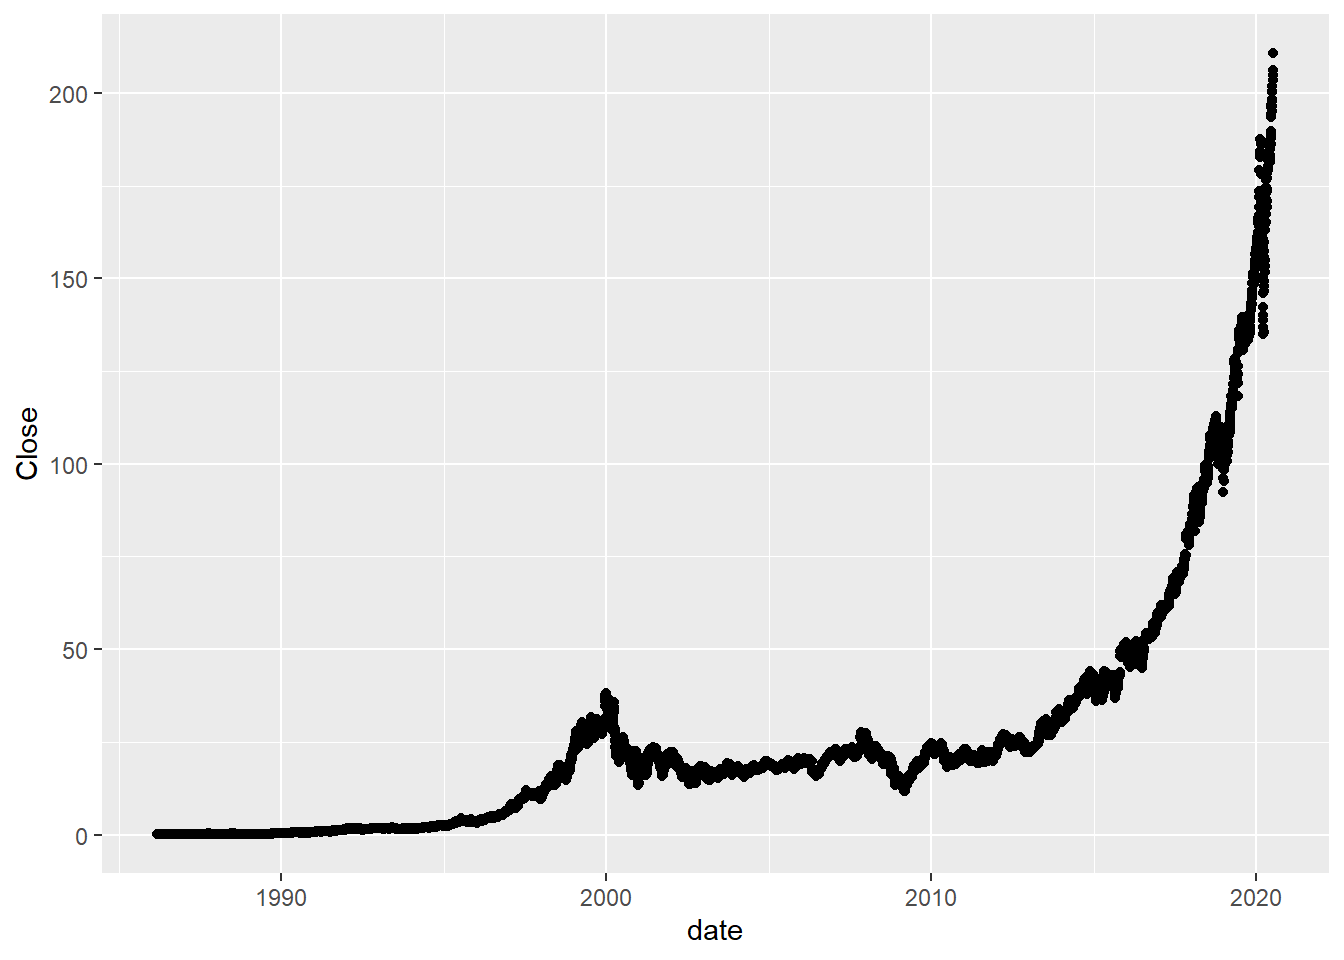
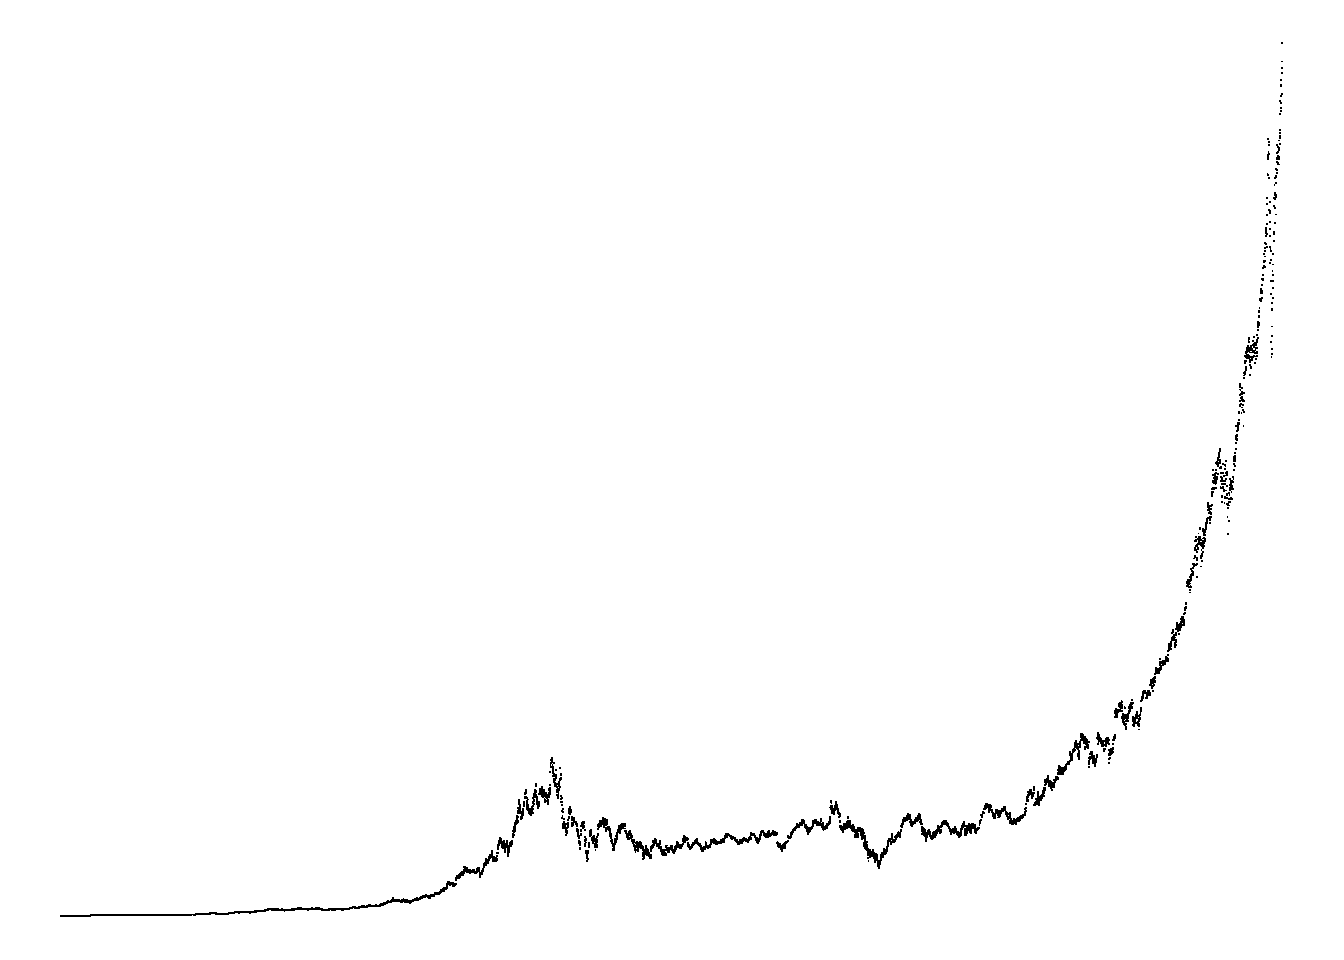
yfinance

diff --git a/public/2020/07/07/time-series-and-yfinance-api/index.html b/public/2020/07/07/time-series-and-yfinance-api/index.html
@@ -108,7 +108,8 @@ data &lt;- data %&gt;%
 
 data %&gt;% 
   ggplot(aes(date,Close))+
-  geom_point()</code></pre>
+  geom_point(shape=&quot;.&quot;)+
+  theme_void()</code></pre>
 <p><img src="/post/2020-07-07-time-series-and-yfinance-api_files/figure-html/unnamed-chunk-4-1.png" width="672" /></p>
 
     </div>

diff --git a/content/post/2020-07-07-time-series-and-yfinance-api.html b/content/post/2020-07-07-time-series-and-yfinance-api.html
@@ -40,5 +40,6 @@ data &lt;- data %&gt;%
 
 data %&gt;% 
   ggplot(aes(date,Close))+
-  geom_point()</code></pre>
+  geom_point(shape=&quot;.&quot;)+
+  theme_void()</code></pre>
 <p><img src="/post/2020-07-07-time-series-and-yfinance-api_files/figure-html/unnamed-chunk-4-1.png" width="672" /></p>
